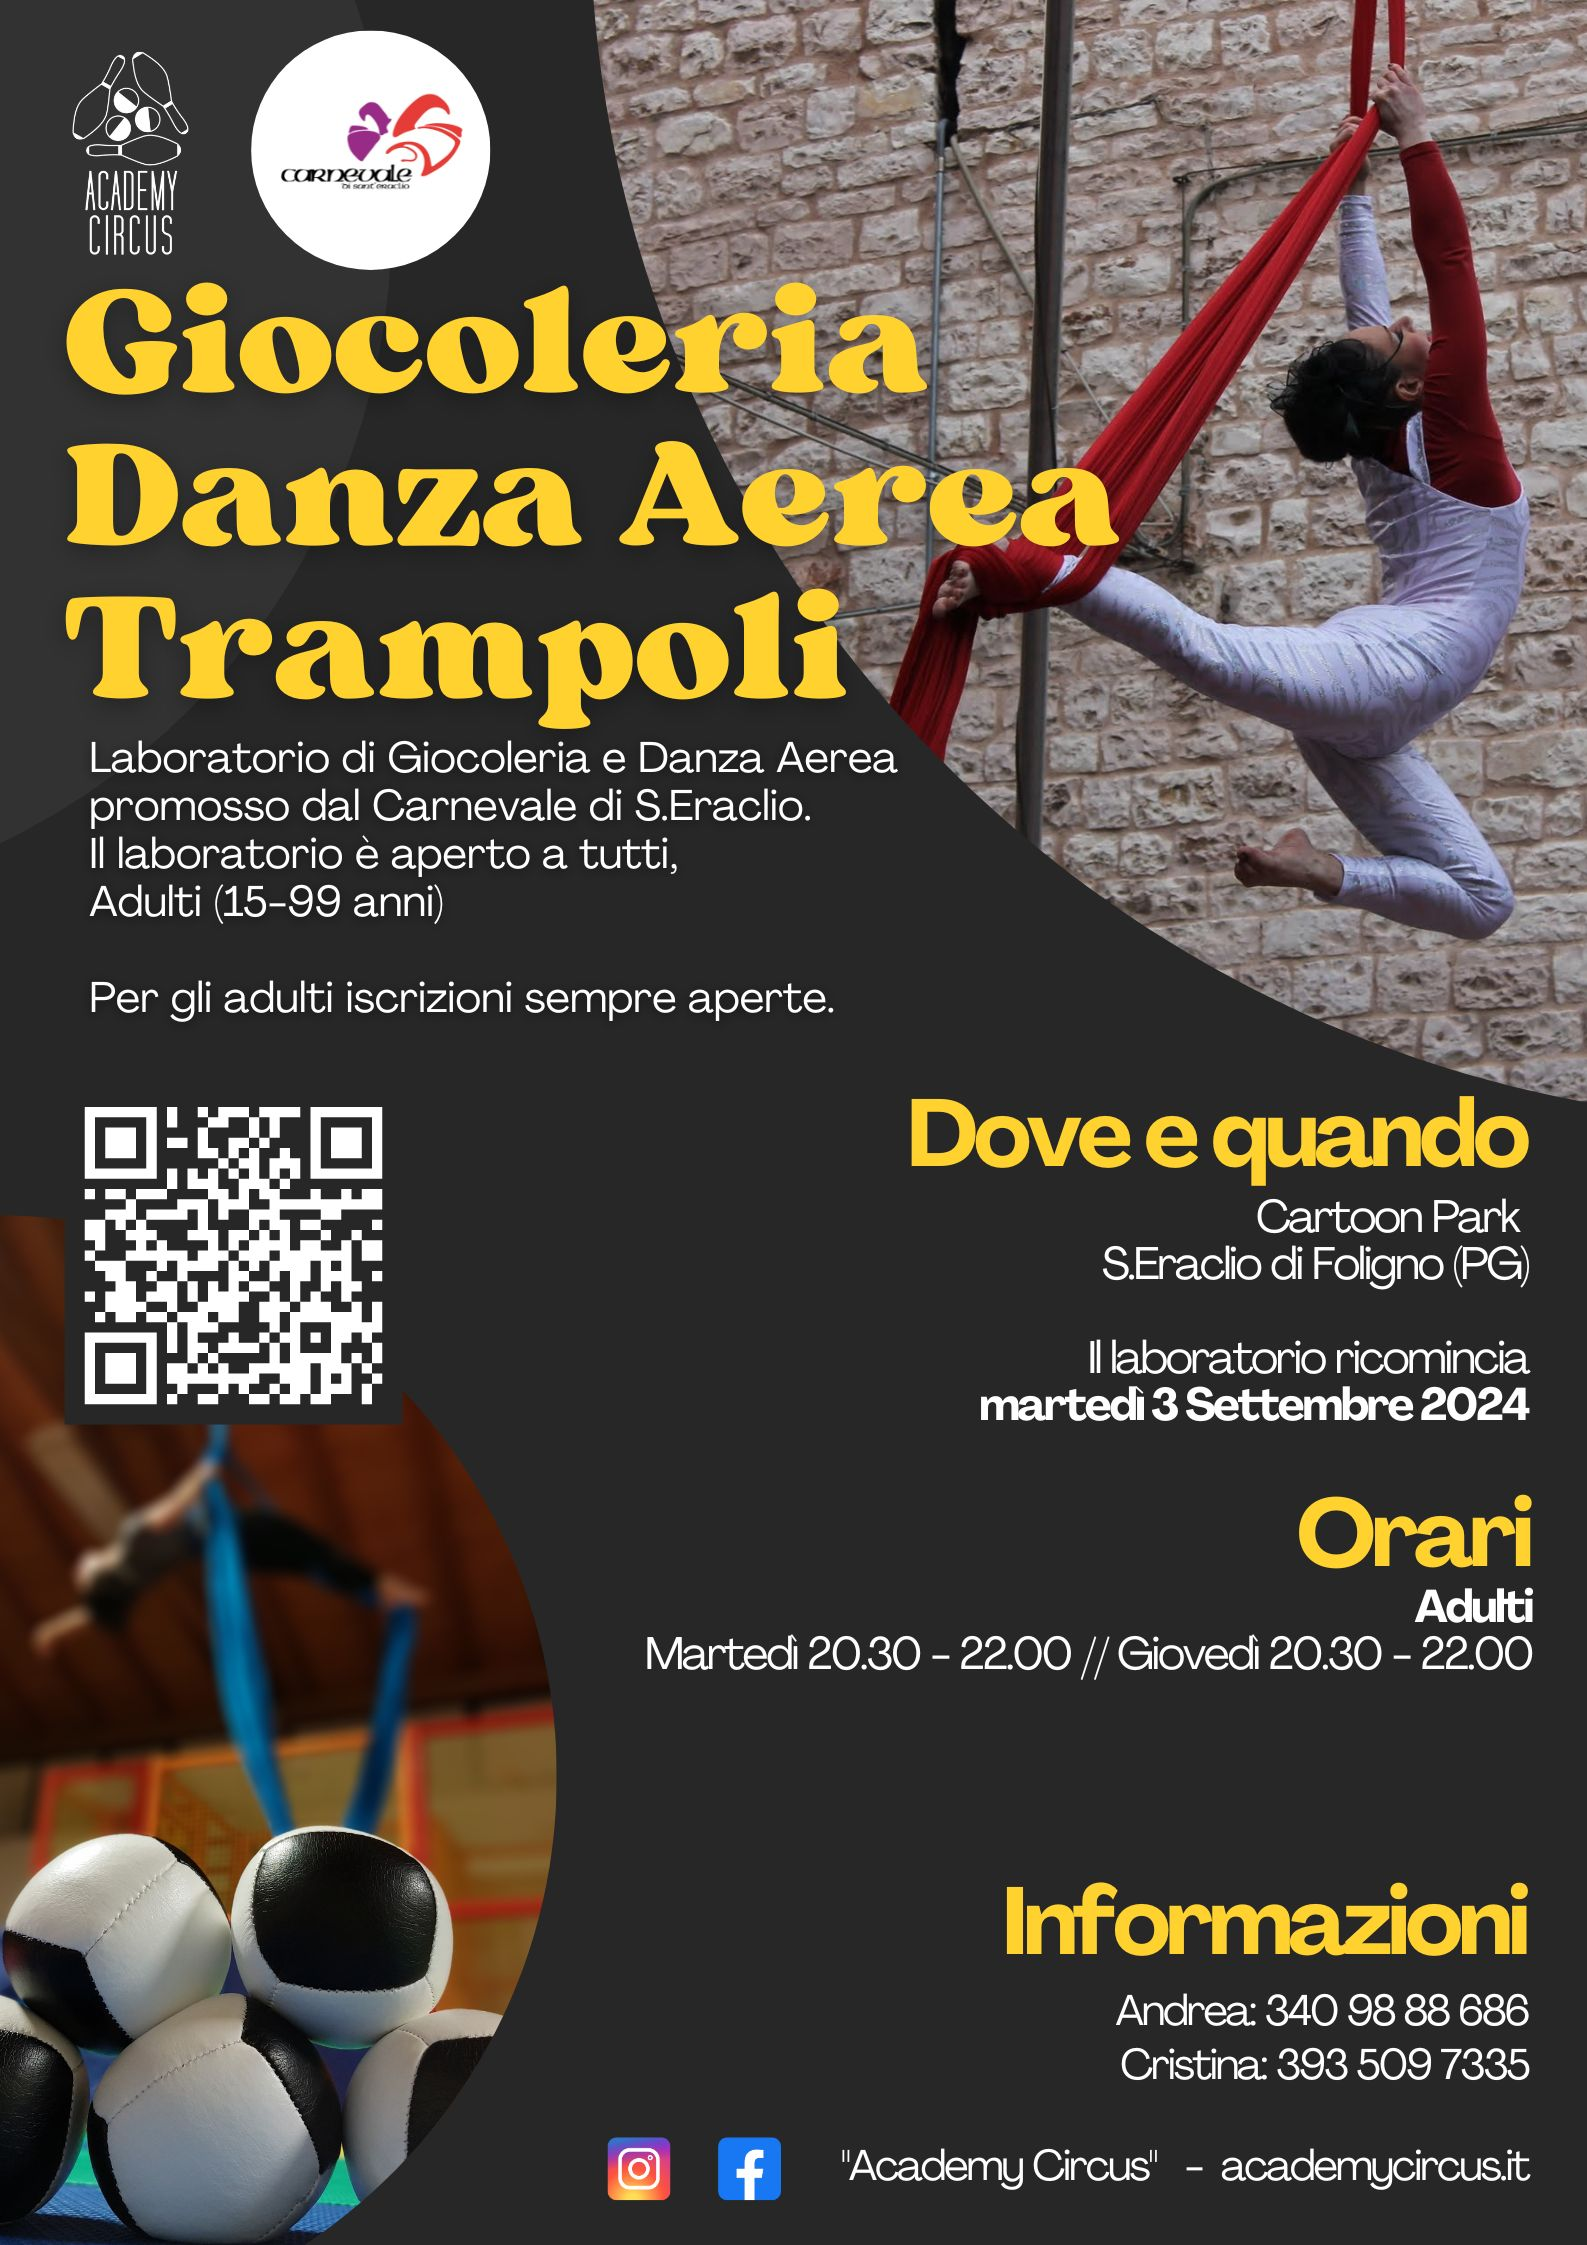
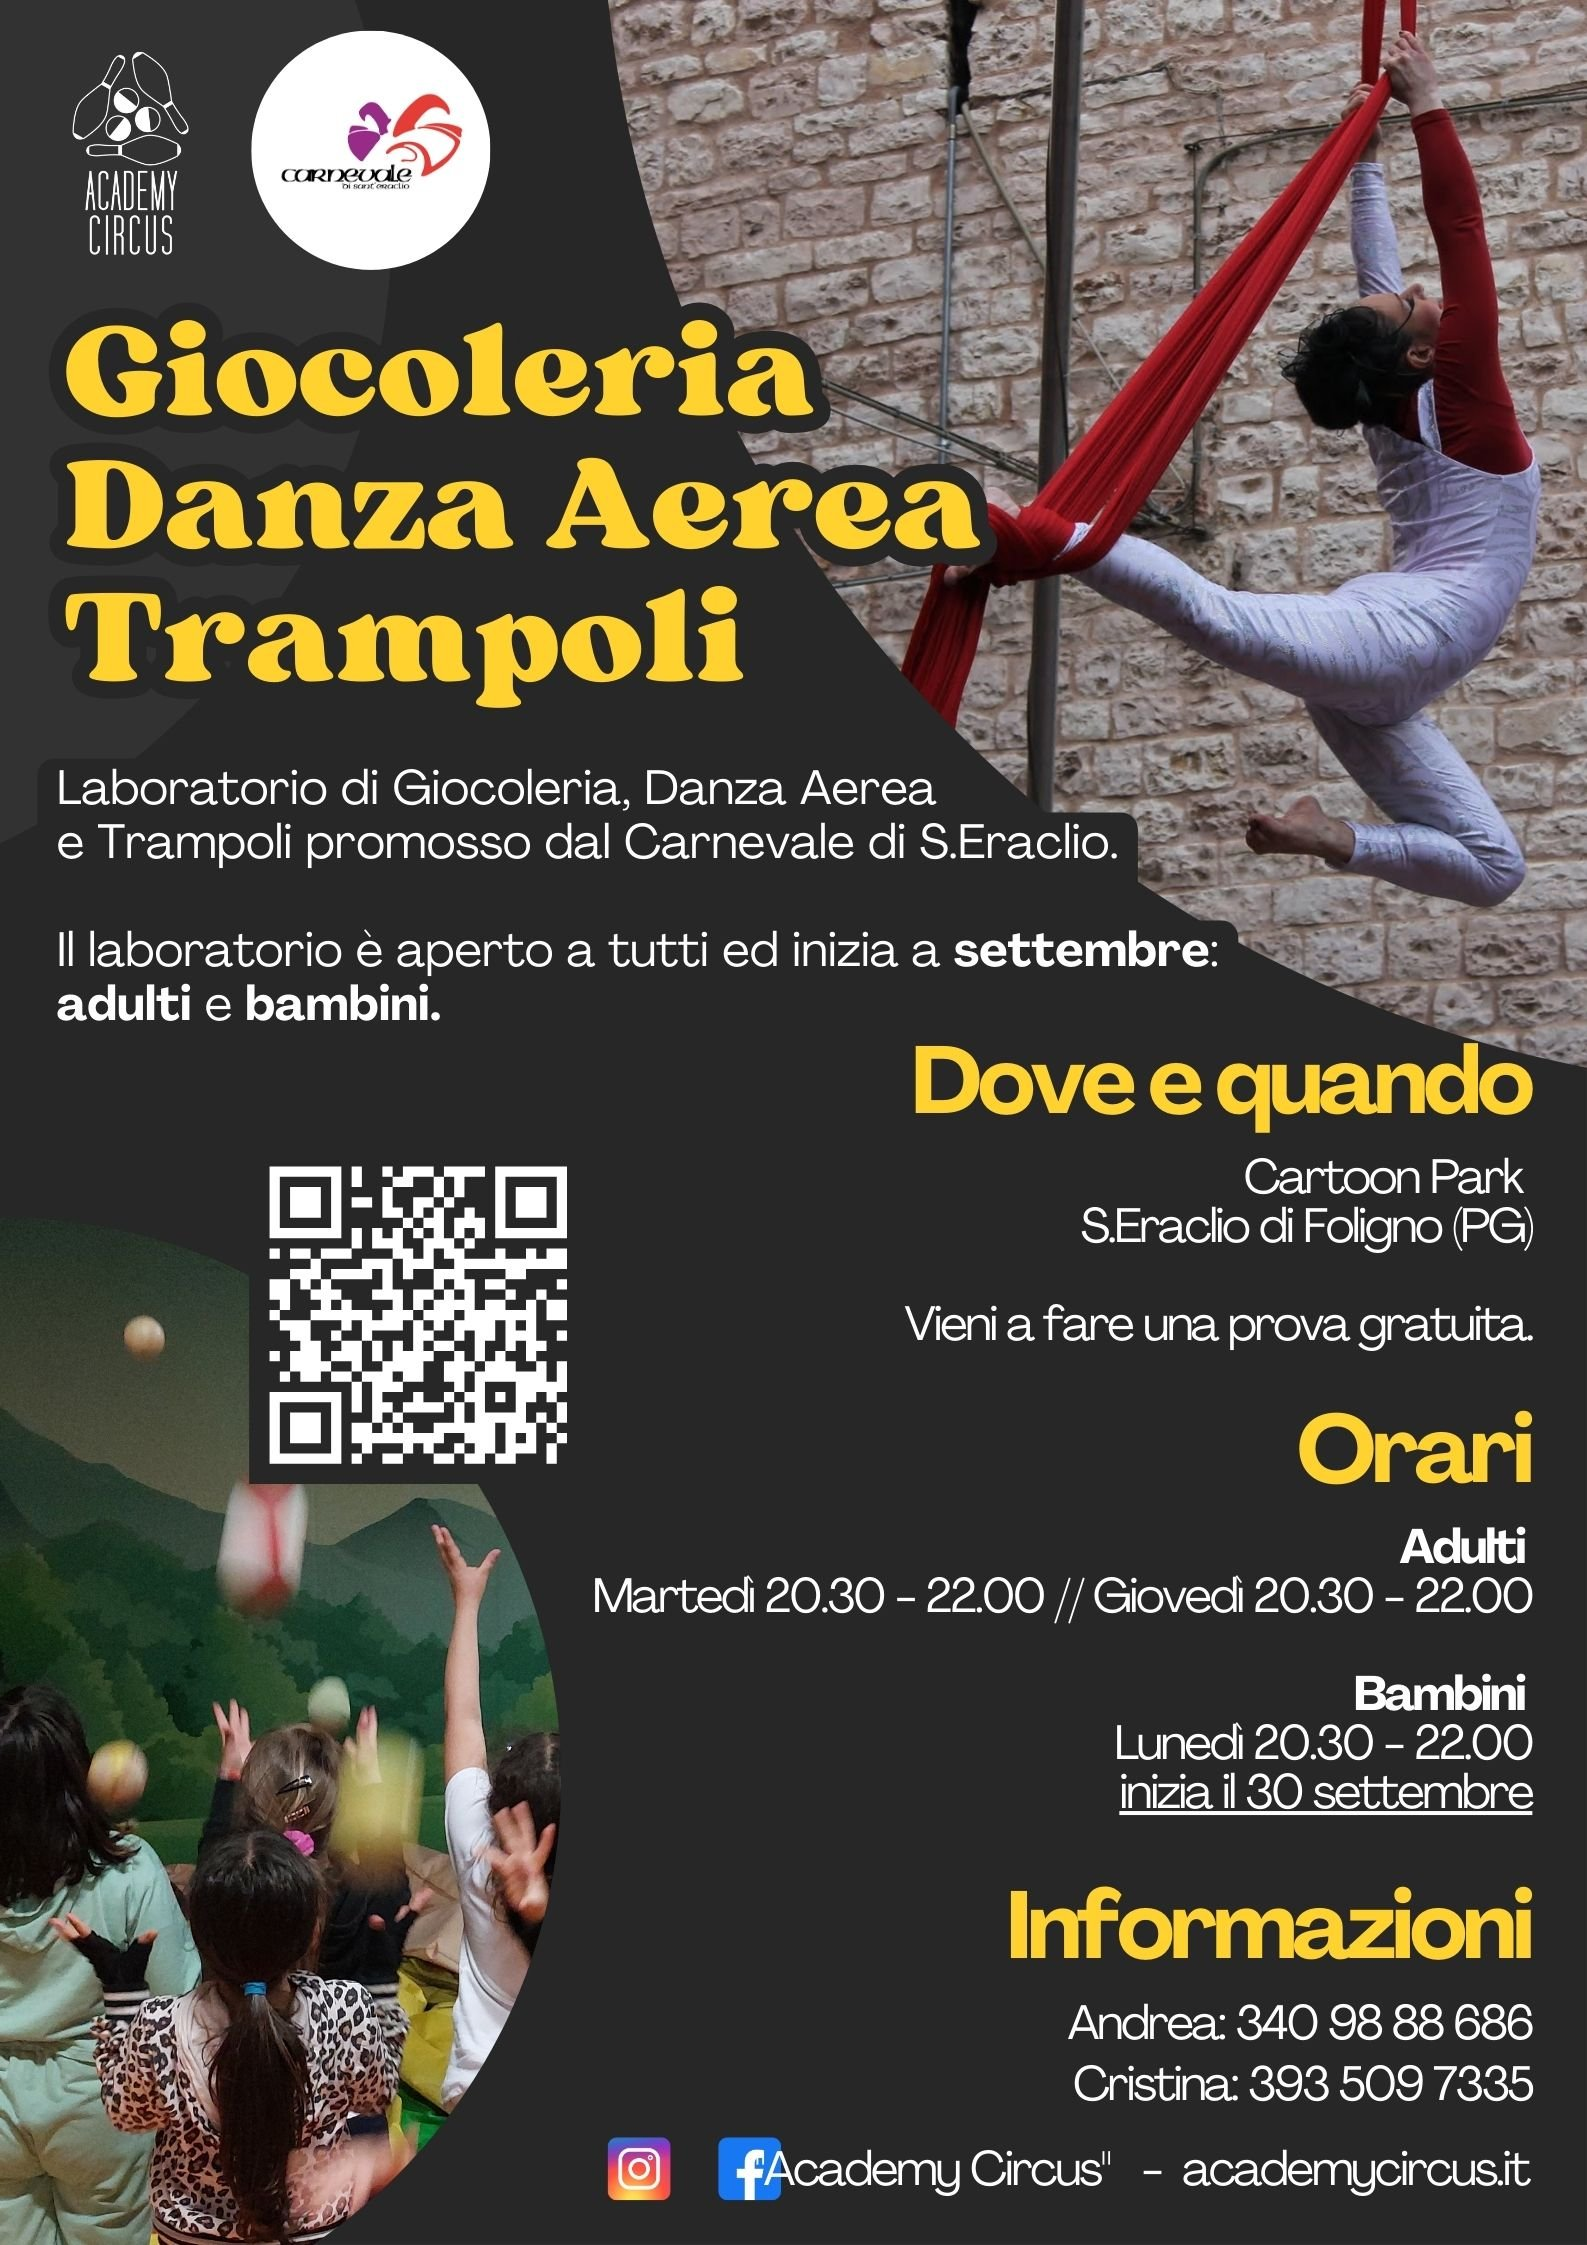
modificata locandina

diff --git a/index.md b/index.md
@@ -55,7 +55,9 @@ DA SETTEMBRE 2024
 Il laboratorio per bambini è un percorso per imparare le basi della giocoleria e dalla danza aerea divertendosi.
 Per i bambini delle elementare e medie.
 
-(inizio previsto fine settembre/inizio ottobre)
+DA OTTOBRE 2024
+
+- Lunedì dalle 20.30 alle 22.00
 
 <img src="{{ site.baseurl }}/uploads/Locandina2024_giocoleria_e_danza_aerea.jpg" alt="giocoleria e danza a aerea 2024 a foligno">
 
